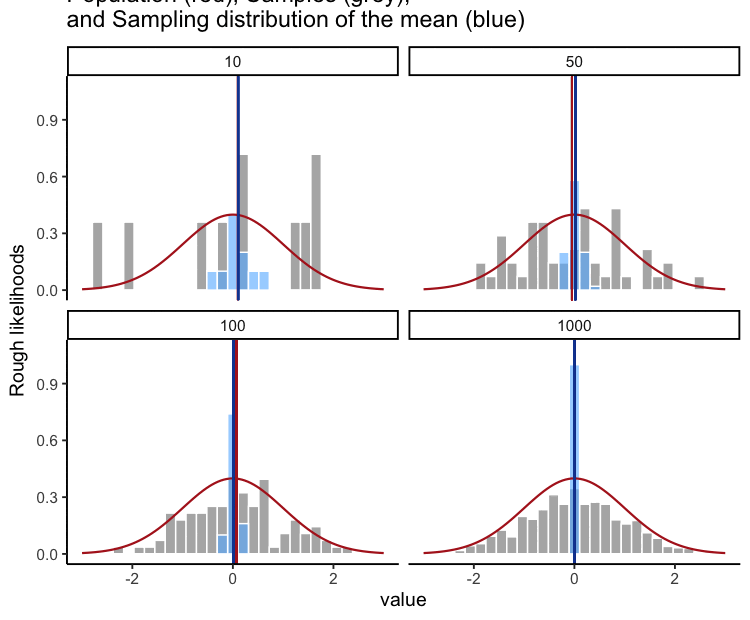
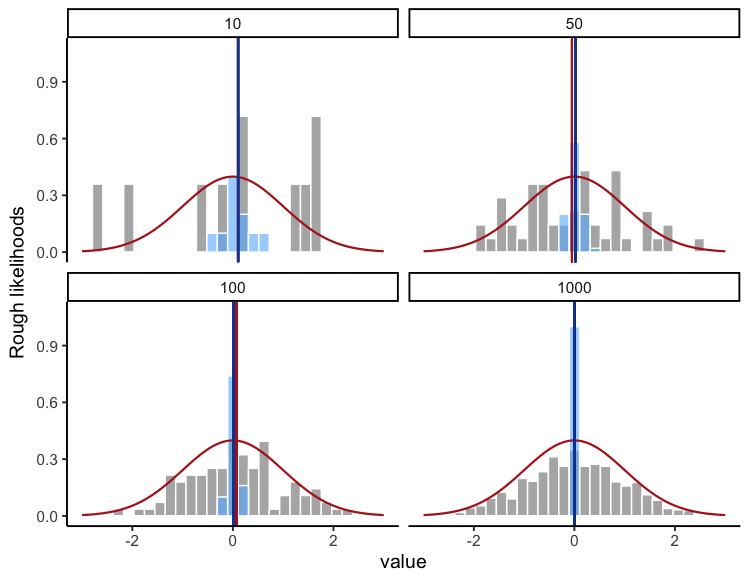
Ch3: fix the colors and the clipped title on Figure 3.12
The caption named dark green for both the mean line and the sampling
distribution, and the prose called the population curve orange. The
animation actually uses a dark red population curve, grey sample bars,
a dark red sample-mean line, a light blue sampling distribution, and a
dark blue line at its mean. Green appears nowhere in it. Rewrote the
caption, alt text, PDF caption, and the paragraph above the figure.

The first title line was sheared off when the gif was built, so cropped
the title block from every frame and let the caption carry the color
key. Frame count and all frame delays are unchanged. Same crop on the
still used in the PDF, and dropped the ggtitle from the source chunk in
Gifs.qmd so a rebuild does not reintroduce it.

diff --git a/docs/03-SamplesPopulations.html b/docs/03-SamplesPopulations.html
@@ -348,7 +348,7 @@ window.Quarto = {
     <div>
     <div class="quarto-title-meta-heading">Modified</div>
     <div class="quarto-title-meta-contents">
-      <p class="date-modified">September 4, 2026</p>
+      <p class="date-modified">September 17, 2026</p>
     </div>
   </div>
     
@@ -838,16 +838,16 @@ Figure&nbsp;3.11: Each panel shows a histogram of a different sampling statistic
 <li><p>Small samples → sample means bounce around more → wide sampling distribution.</p></li>
 <li><p>Large samples → sample means are more stable → narrow sampling distribution.</p></li>
 </ul>
-<p><a href="#fig-3samplingmean" class="quarto-xref">Figure&nbsp;<span>3.12</span></a> animates this idea. Each panel shows samples of size 10, 50, 100, or 1000 drawn from a normal distribution (orange line). Grey bars show the sample itself, the red line marks that sample’s mean, and the blue histogram shows the distribution of sample means across many repetitions. Notice how the blue distribution shrinks around the population mean as <span class="math inline">\(n\)</span> increases.</p>
+<p><a href="#fig-3samplingmean" class="quarto-xref">Figure&nbsp;<span>3.12</span></a> animates this idea. Each panel shows samples of size 10, 50, 100, or 1000 drawn from a normal population (red curve). Grey bars show the sample itself, the red vertical line marks that sample’s mean, and the blue histogram shows the distribution of sample means across many repetitions, with its own mean in dark blue. Notice how the blue distribution shrinks around the population mean as <span class="math inline">\(n\)</span> increases.</p>
 <div class="cell">
 <div class="cell-output-display">
-<div id="fig-3samplingmean" class="quarto-float quarto-figure quarto-figure-center anchored" alt="Animation with four panels for sample sizes 10, 50, 100, and 1000. In each panel, an orange line traces the population's normal curve, grey bars show one sample drawn from it, a dark green vertical line marks that sample's mean, and a dark green histogram shows the distribution of sample means across many repetitions. As the panels move from a sample size of 10 to 1000, the green histogram grows visibly narrower and tighter around the population mean.">
+<div id="fig-3samplingmean" class="quarto-float quarto-figure quarto-figure-center anchored" alt="Animation with four panels for sample sizes 10, 50, 100, and 1000. In each panel, a dark red line traces the population's normal curve, grey bars show one sample drawn from it, a dark red vertical line marks that sample's mean, and a light blue histogram shows the distribution of sample means across many repetitions, with a dark blue vertical line at its mean. As the panels move from a sample size of 10 to 1000, the blue histogram grows visibly narrower and tighter around the population mean.">
 <figure class="quarto-float quarto-float-fig figure">
 <div aria-describedby="fig-3samplingmean-caption-0ceaefa1-69ba-4598-a22c-09a6ac19f8ca">
-<img src="imgs/gifs/sampleDistNormal-1.gif" class="img-fluid figure-img" style="width:75.0%" alt="Animation with four panels for sample sizes 10, 50, 100, and 1000. In each panel, an orange line traces the population's normal curve, grey bars show one sample drawn from it, a dark green vertical line marks that sample's mean, and a dark green histogram shows the distribution of sample means across many repetitions. As the panels move from a sample size of 10 to 1000, the green histogram grows visibly narrower and tighter around the population mean.">
+<img src="imgs/gifs/sampleDistNormal-1.gif" class="img-fluid figure-img" style="width:75.0%" alt="Animation with four panels for sample sizes 10, 50, 100, and 1000. In each panel, a dark red line traces the population's normal curve, grey bars show one sample drawn from it, a dark red vertical line marks that sample's mean, and a light blue histogram shows the distribution of sample means across many repetitions, with a dark blue vertical line at its mean. As the panels move from a sample size of 10 to 1000, the blue histogram grows visibly narrower and tighter around the population mean.">
 </div>
 <figcaption class="quarto-float-caption-bottom quarto-float-caption quarto-float-fig" id="fig-3samplingmean-caption-0ceaefa1-69ba-4598-a22c-09a6ac19f8ca">
-Figure&nbsp;3.12: Simulation of samples (grey), their means (dark green line), and the sampling distribution of the mean (dark green). As sample size grows, the distribution of sample means narrows and centers on the population mean.
+Figure&nbsp;3.12: Samples (grey bars) drawn from a normal population (red curve), each sample’s mean (red vertical line), and the sampling distribution of the mean (blue histogram) with its own mean (dark blue line). As sample size grows, the distribution of sample means narrows and centers on the population mean.
 </figcaption>
 </figure>
 </div>
